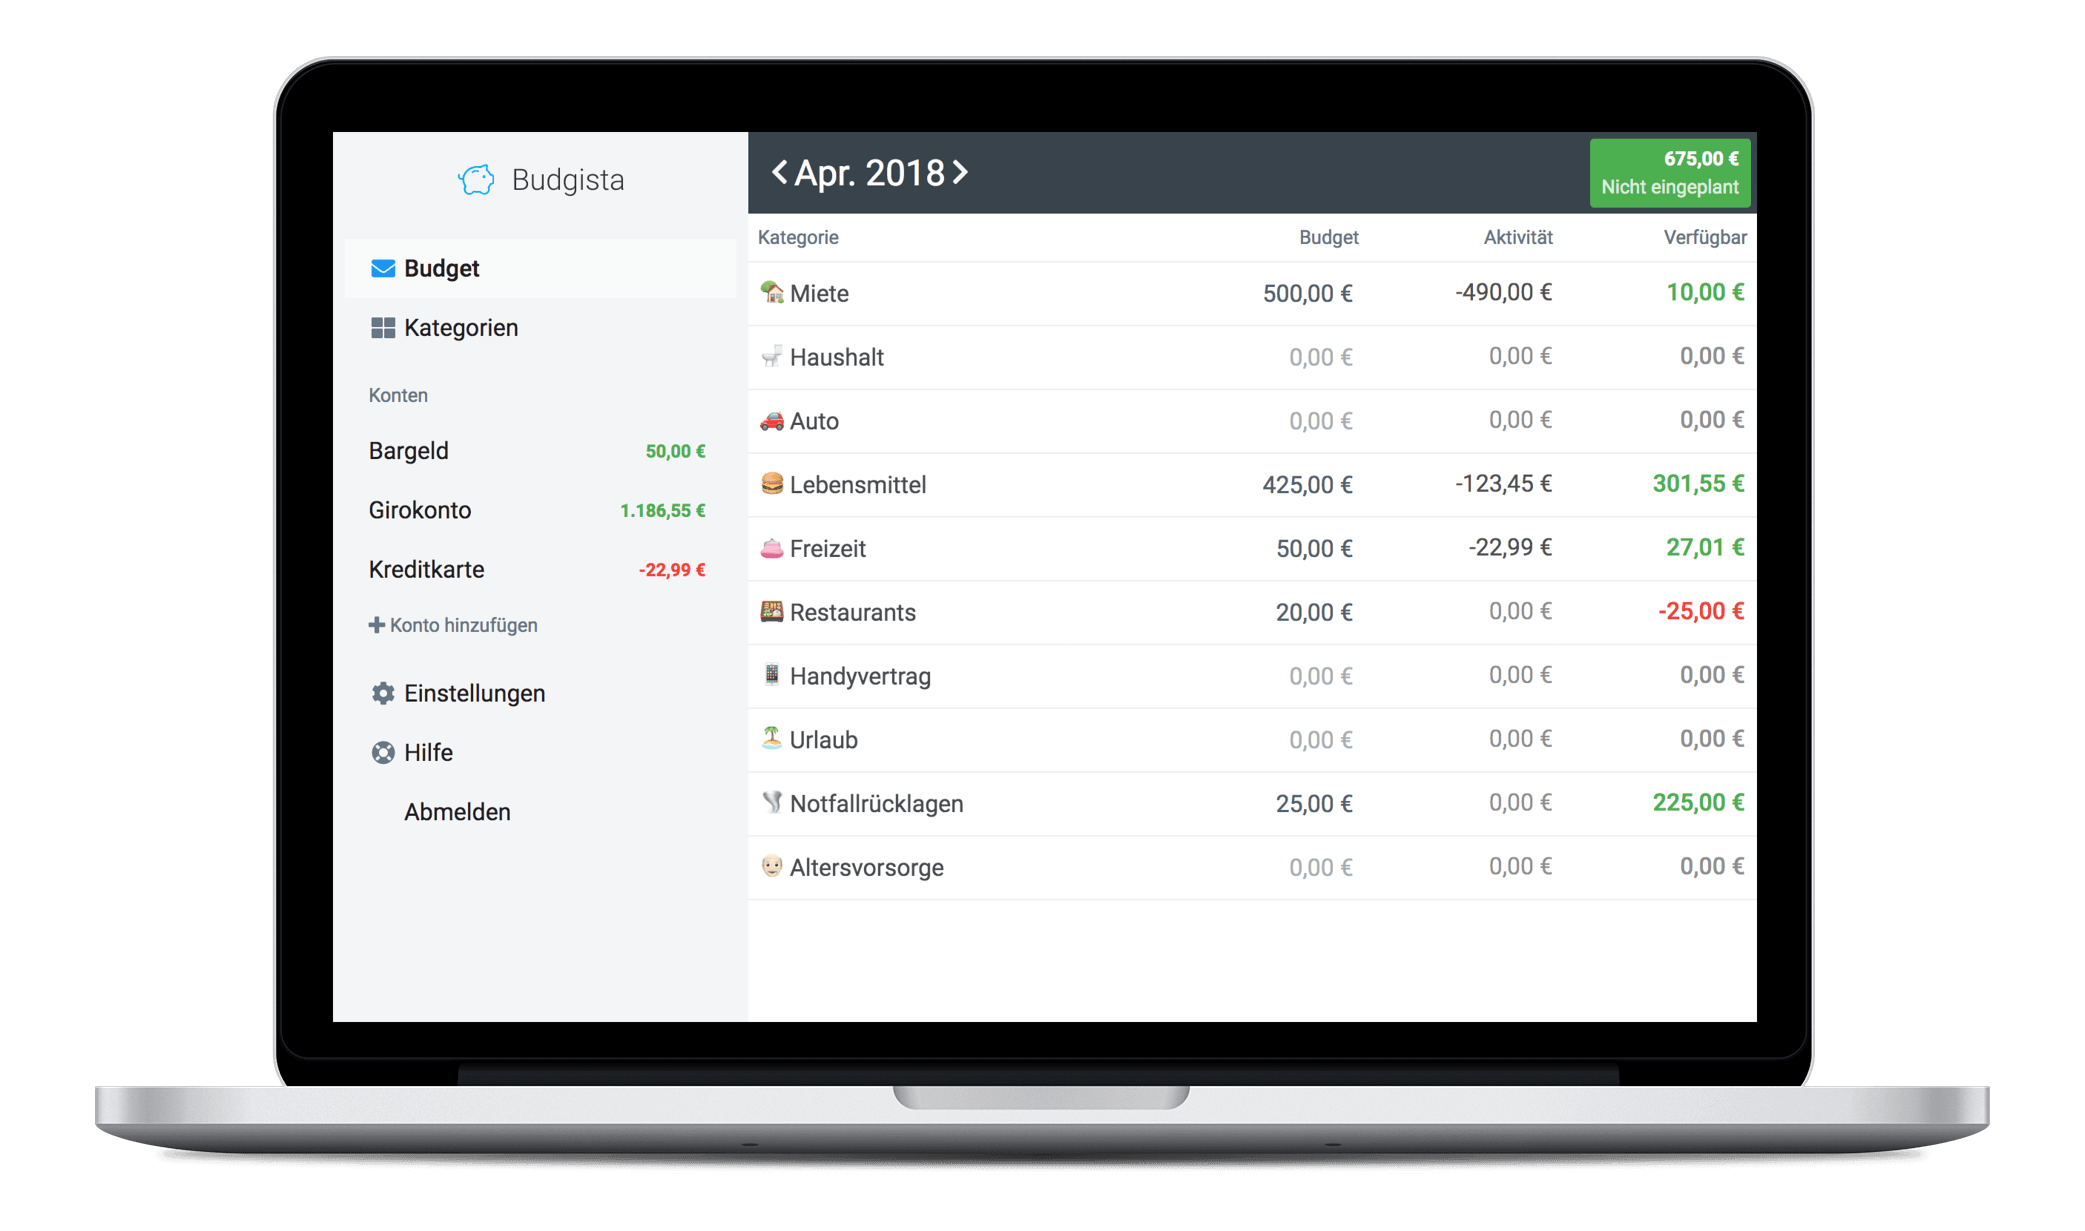
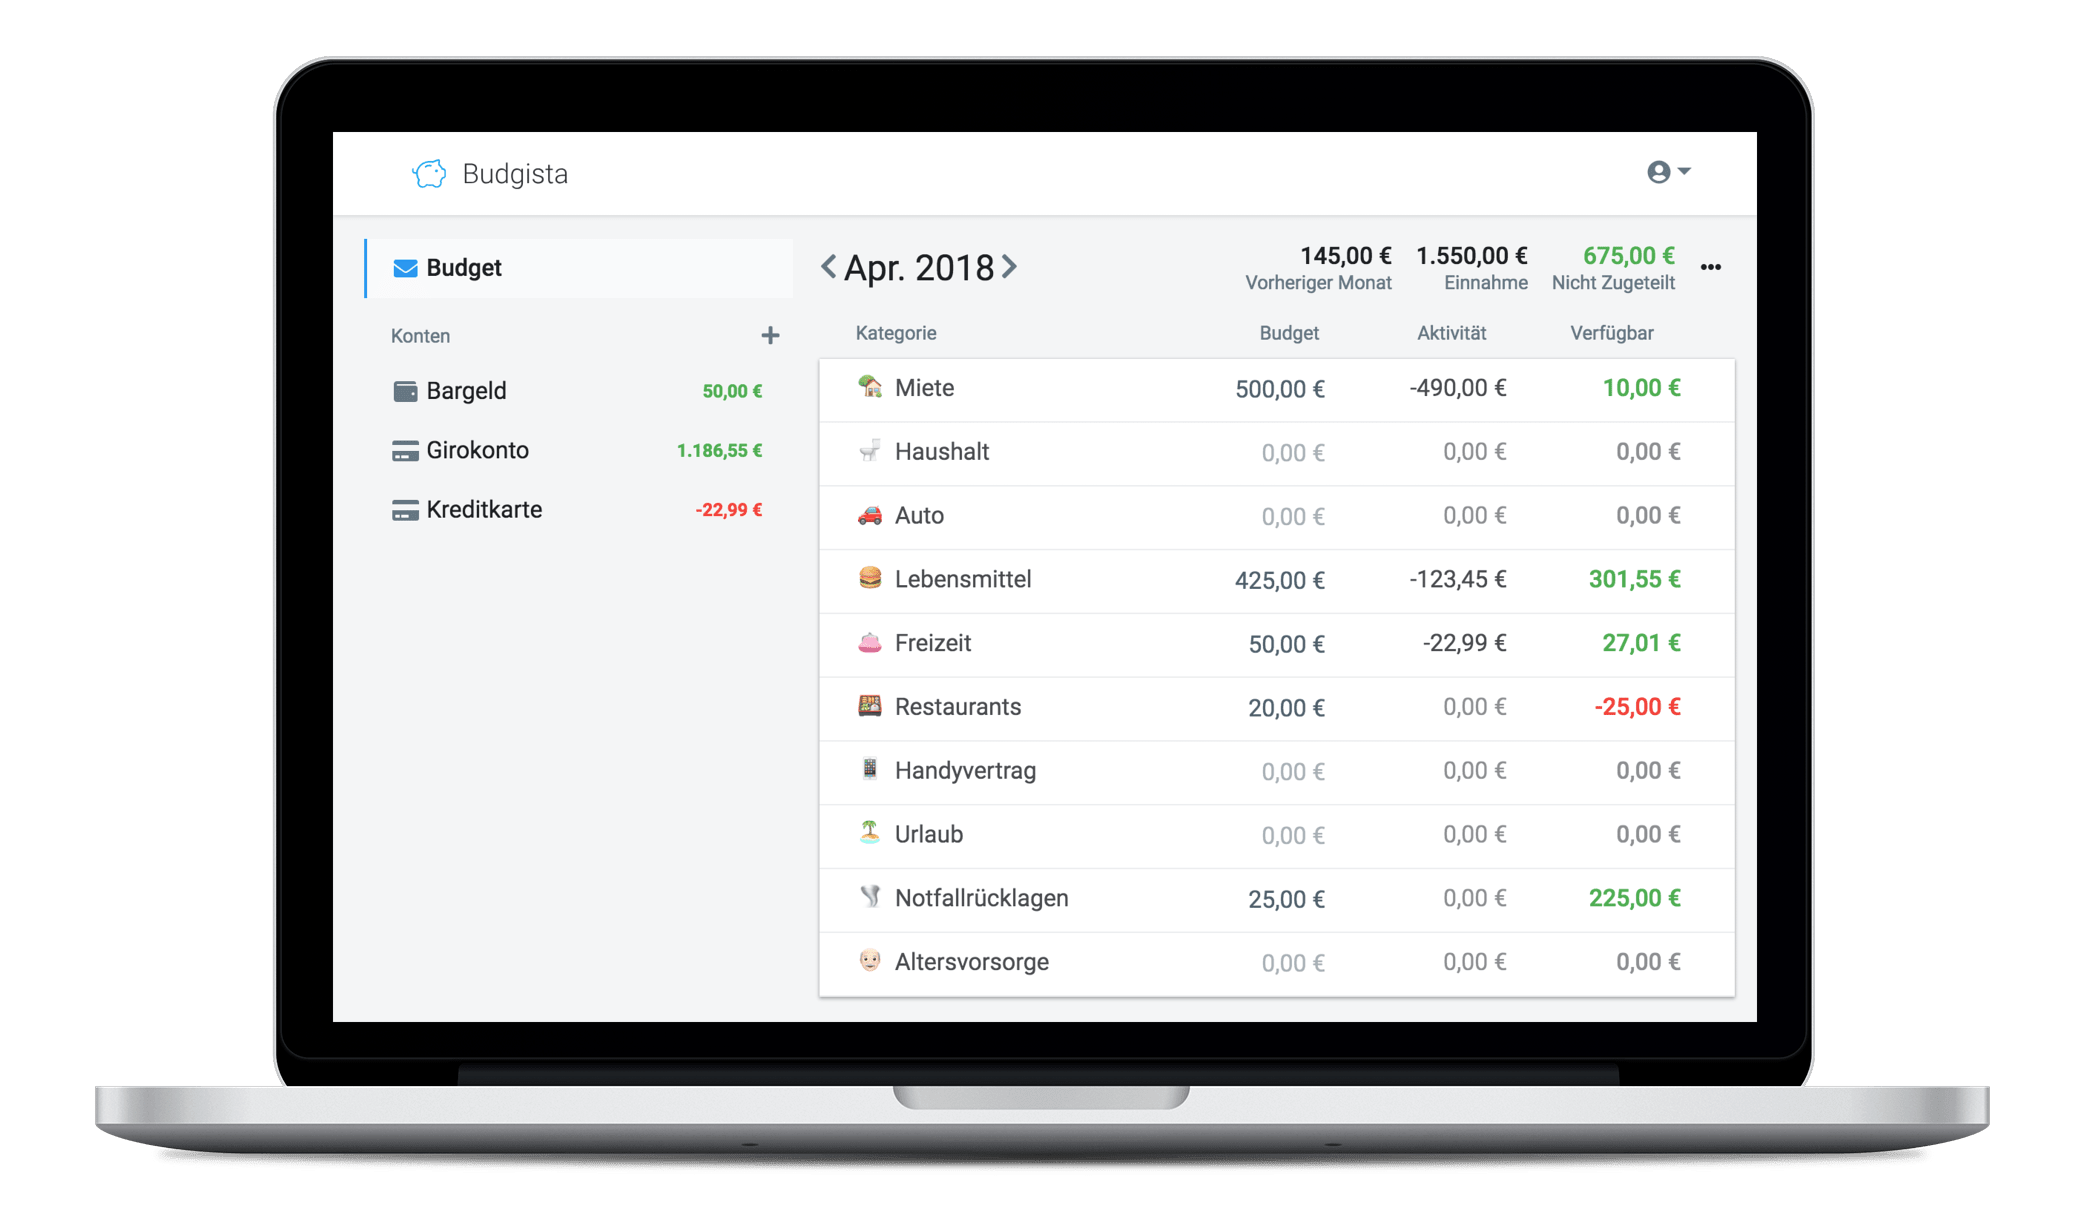
Updated product image.

diff --git a/resources/views/static/home.blade.php b/resources/views/static/home.blade.php
@@ -40,11 +40,8 @@
             @each('static._bullet', trans('static.home.bullets'), 'bullet')
         </div>
         <div class="row mb-md-3">
-            <div class="px-4 px-md-5 d-sm-block d-none">
+            <div class="pb-4 pb-md-0 px-4 px-md-5 mx-xl-5">
                 <img src="{{ asset('images/desktop.png') }}" class="img-fluid" alt="Budgista on Laptop">
-            </div>
-            <div class="px-3 d-sm-none">
-                <img src="{{ asset('images/mobile.png') }}" class="img-fluid" alt="Budgista on Mobile Device">
             </div>
         </div>
     </div>
